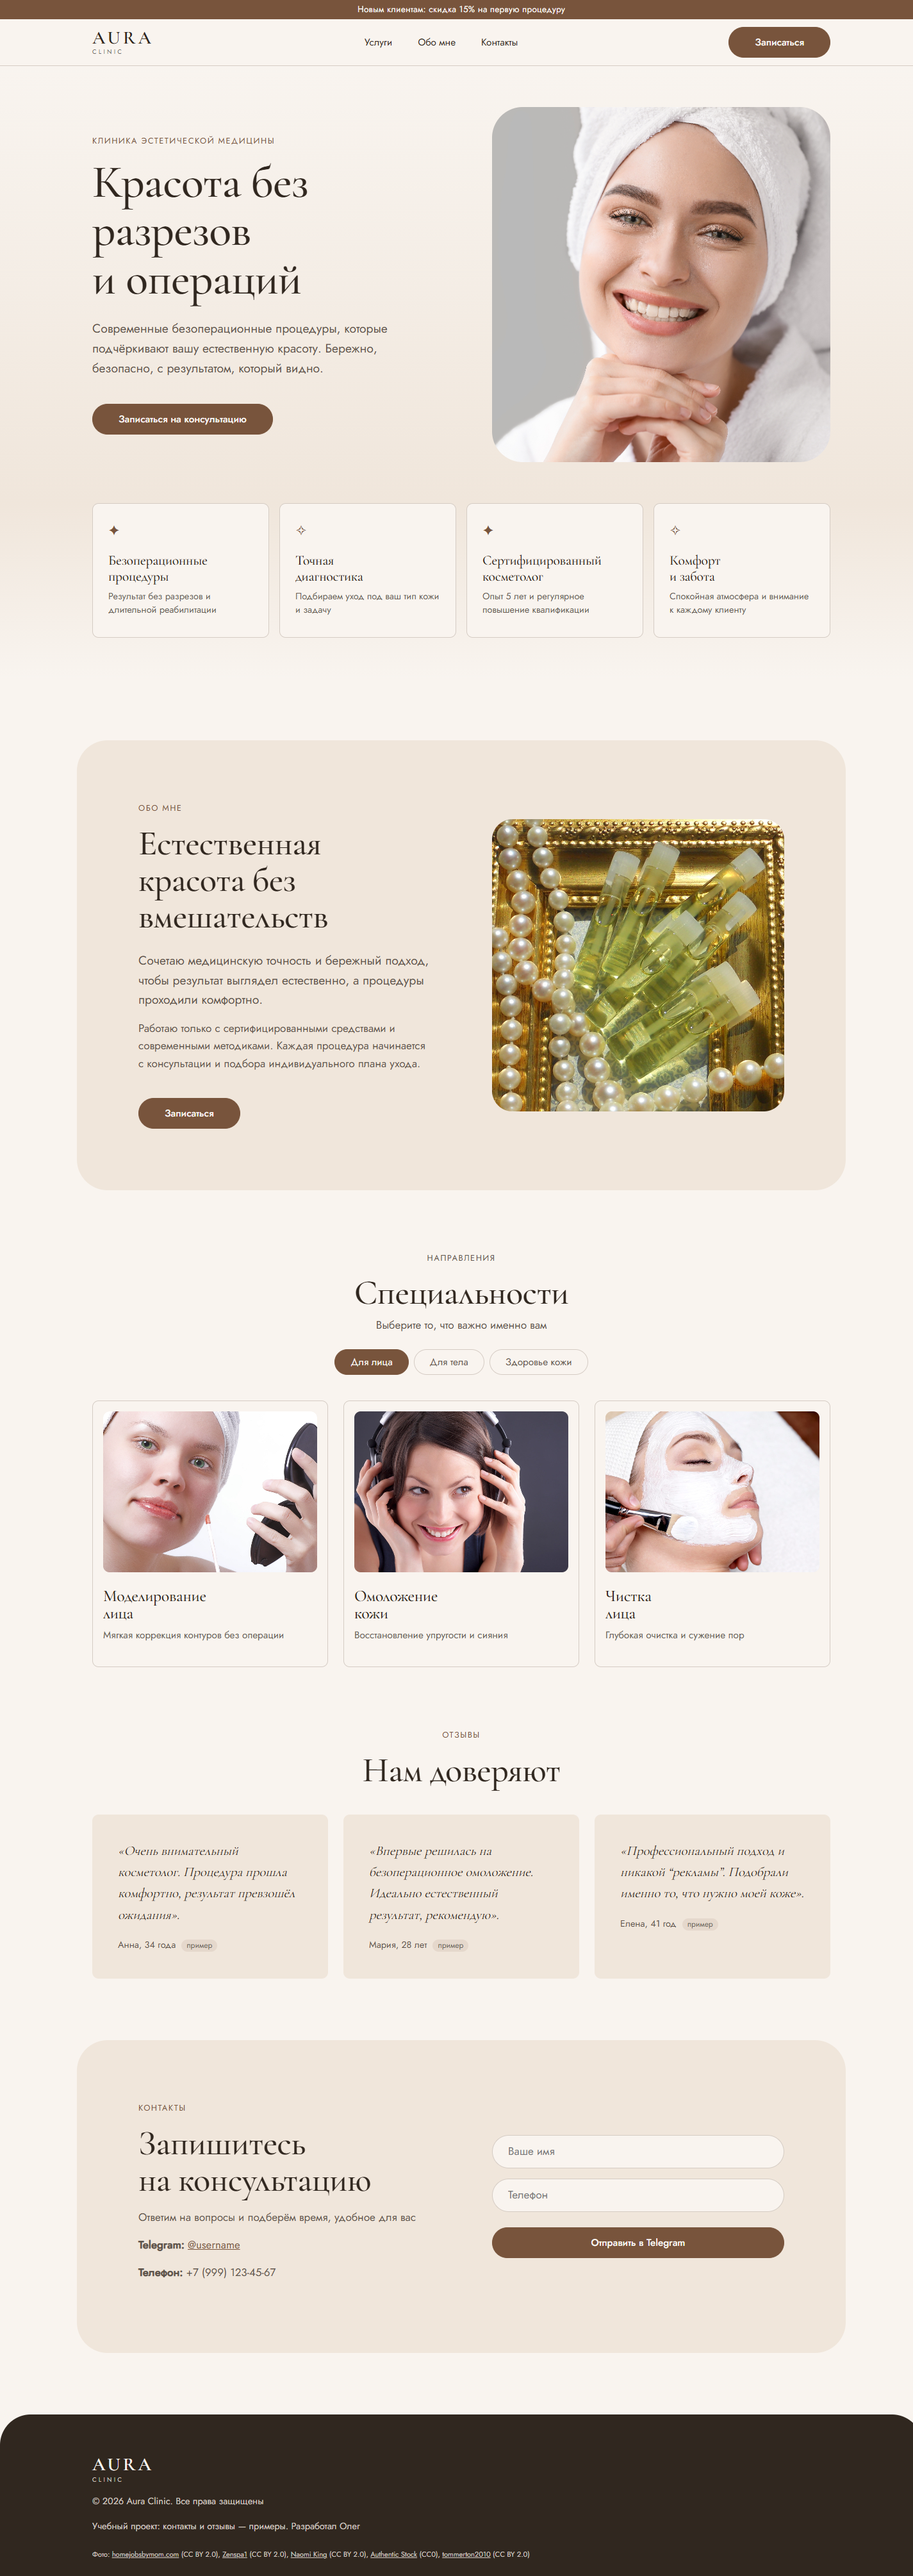
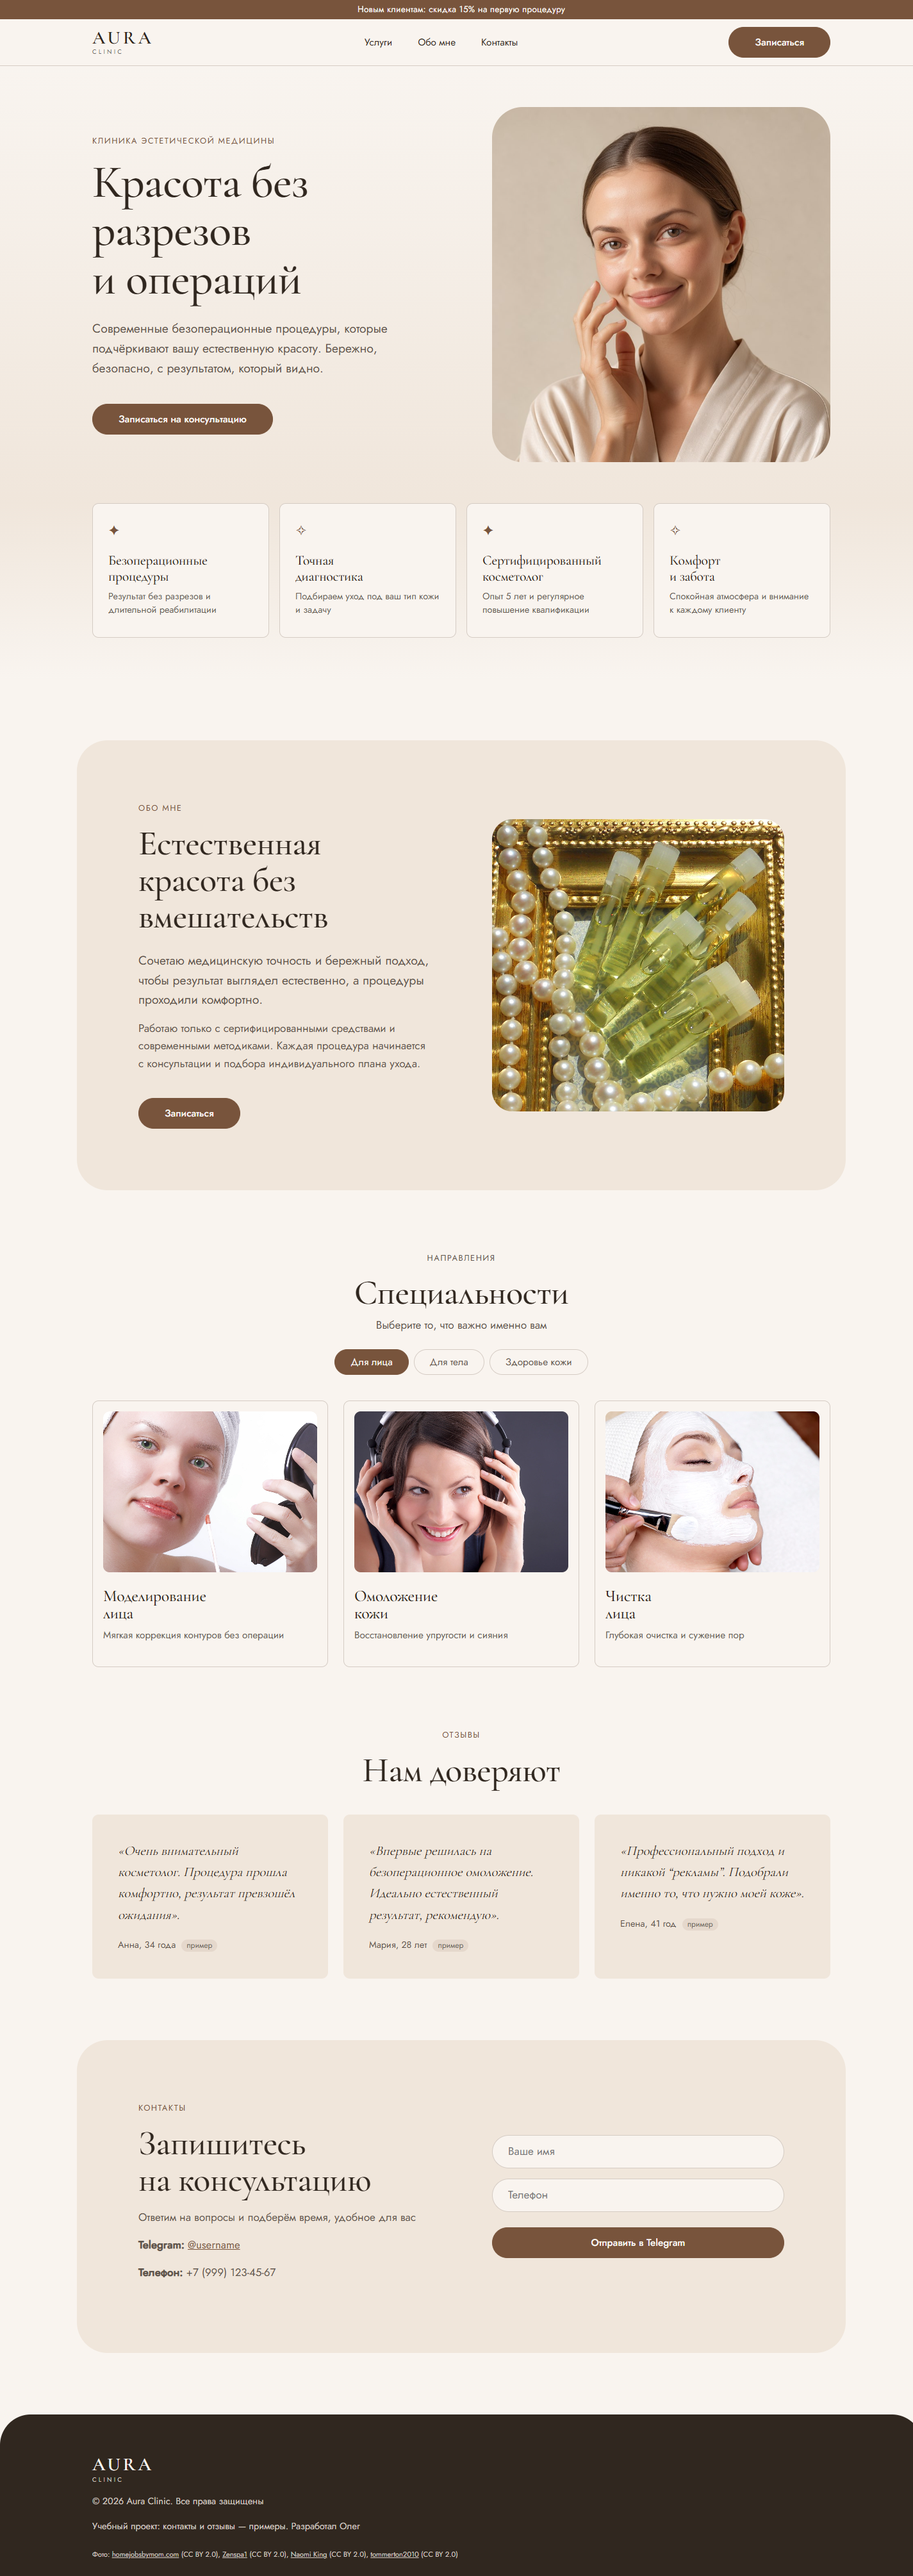
лендинг: сгенерированный герой, обновлённые кредиты и кадрирование

Changed region(s): [[0.5249, 0.0311, 0.9263, 0.1866]]

diff --git a/script.js b/script.js
@@ -1,4 +1,4 @@
-// Slots: fill placeholders with real local photos (Flickr CC BY 2.0, credited in footer)
+// Slots: fill placeholders with local photos (Flickr CC BY 2.0 + own generated hero)
 function hallmarkSlots(slots) {
   if (!slots) return;
   Object.entries(slots).forEach(([name, path]) => {
@@ -34,7 +34,6 @@ document.addEventListener('DOMContentLoaded', () => {
     a: '<a href="https://www.flickr.com/photos/76588981@N02/11179260694" target="_blank" rel="noopener">homejobsbymom.com</a> (CC BY 2.0)',
     b: '<a href="https://www.flickr.com/photos/93609956@N05/9865582355" target="_blank" rel="noopener">Zenspa1</a> (CC BY 2.0)',
     c: '<a href="https://www.flickr.com/photos/22141297@N06/7798556096" target="_blank" rel="noopener">Naomi King</a> (CC BY 2.0)',
-    d: '<a href="https://stocksnap.io/photo/smiling-woman-3WMJWQPS9L" target="_blank" rel="noopener">Authentic Stock</a> (CC0)',
     e: '<a href="https://www.flickr.com/photos/58842866@N08/5388130101" target="_blank" rel="noopener">tommerton2010</a> (CC BY 2.0)',
   };
   const creditEl = document.querySelector('[data-credits]');

diff --git a/index.html b/index.html
@@ -43,7 +43,7 @@
         <a href="https://t.me/username" class="btn btn--primary" target="_blank" rel="noopener">Записаться на консультацию</a>
       </div>
       <div class="hero-image">
-        <div class="placeholder" data-slot="hero" data-alt="Девушка в белом полотенце после спа-процедуры"></div>
+        <div class="placeholder" data-slot="hero" data-alt="Портрет женщины с естественной кожей после ухода за лицом, рука у щеки"></div>
       </div>
     </div>
   </section>

diff --git a/styles.css b/styles.css
@@ -58,6 +58,7 @@ h1, h2, h3 { font-family: var(--font-display); font-weight: 500; letter-spacing:
 .hero h1 { font-size: clamp(3rem, 5vw, 4.6rem); margin-bottom: var(--space-lg); max-width: 12ch; }
 .hero .lead { max-width: 46ch; margin-bottom: var(--space-xl); }
 .hero-image .placeholder { aspect-ratio: 4/4.2; border-radius: var(--radius-section); }
+.hero-image .placeholder img { object-position: center top; }
 
 /* Placeholders */
 .placeholder { width: 100%; aspect-ratio: 4/3; background: var(--color-paper-2); border-radius: var(--radius-card); position: relative; overflow: hidden; }

diff --git a/README.md b/README.md
@@ -24,9 +24,9 @@
 
 ## Фото
 
-Фотографии с лицензией **CC BY 2.0** (Flickr) и **CC0** (StockSnap, Rawpixel). Авторы CC BY указаны в футере страницы в блоке `data-credits`; CC0 не требует указания авторства.
+Фотографии с лицензией **CC BY 2.0** (Flickr), **CC0** (StockSnap, Rawpixel) и сгенерированный герой (FLUX 3 / ComfyUI, автор Олег). Авторы CC BY указаны в футере страницы в блоке `data-credits`; CC0 не требует указания авторства.
 
-Файлы: `images/hero-spa.jpg`, `images/about.jpg`, `images/process-consultation.jpg`, `images/process-result.jpg`, `images/beauty-face.jpg` (CC BY), `images/body-massage.jpg`, `images/body-care.jpg`, `images/body-relax.jpg` (CC0, Rawpixel: 5913670, 5949647, 5944979), `images/skin-serum.jpg`, `images/skin-cream.jpg`, `images/skin-smile.jpg` (CC0, StockSnap).
+Файлы: `images/hero-spa.jpg` (собственная генерация), `images/about.jpg`, `images/process-consultation.jpg`, `images/process-result.jpg`, `images/beauty-face.jpg` (CC BY), `images/body-massage.jpg`, `images/body-care.jpg`, `images/body-relax.jpg` (CC0, Rawpixel: 5913670, 5949647, 5944979), `images/skin-serum.jpg`, `images/skin-cream.jpg`, `images/skin-smile.jpg` (CC0, StockSnap).
 
 ## Деплой
 
